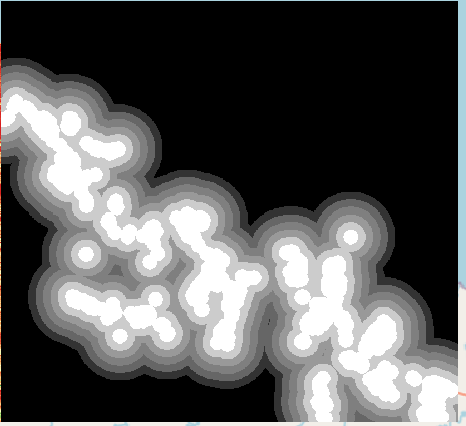
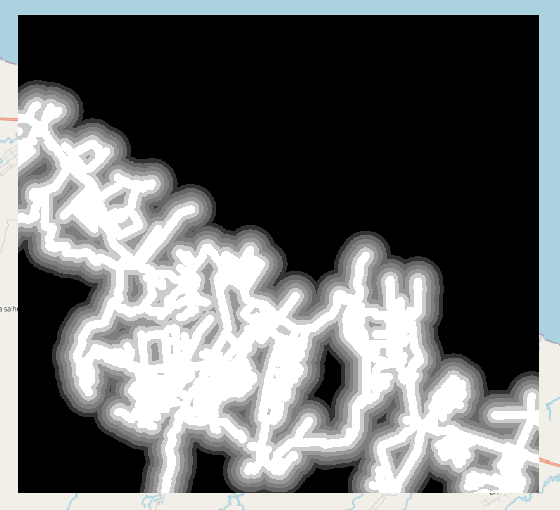
Update: Update Readme.md

diff --git a/README.md b/README.md
@@ -7,7 +7,7 @@ This project implements a comprehensive workflow to evaluate forest fire risk us
 The methodology is standardized into 4 main phases:
 
 <p align="center">
-  <img src="Flowchart_v3.png" width="500" alt="Workflow Chart">
+  <img src="images/Flowchart_v3.png" width="500" alt="Workflow Chart">
   <br><em>Data Processing Workflow in QGIS</em>
 </p>
 